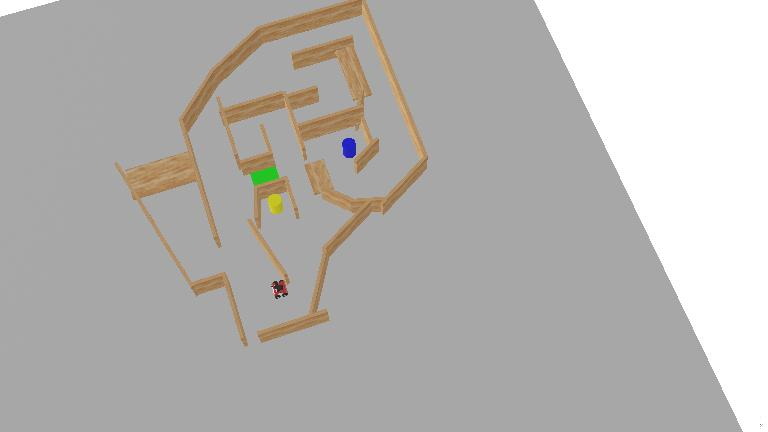
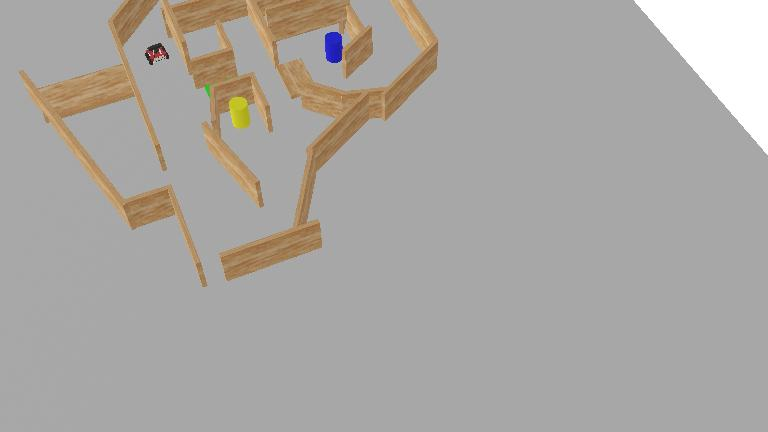
added known-free-only planner

diff --git a/controllers/my_controller/following.py b/controllers/my_controller/following.py
@@ -21,7 +21,9 @@ from config import (
     DWA_VELOCITY_SAMPLES, DWA_ANGULAR_SAMPLES, DWA_ROLLOUT_STEPS, DWA_ROBOT_RADIUS_PX,
     DWA_HEADING_WEIGHT, DWA_DISTANCE_WEIGHT, DWA_SPEED_WEIGHT, DWA_CLEARANCE_WEIGHT,
     PATH_FOLLOWING_TARGET_REACH_DIST_PX, FOLLOW_WAYPOINT_STRIDE,
-    FOLLOW_STUCK_MOVE_M, FOLLOW_STUCK_TURN_RAD, FOLLOW_STUCK_STEPS,
+    FOLLOW_RECOVER_STEPS, FOLLOW_RECOVER_VEL, FOLLOW_RECOVER_OMEGA, FOLLOW_MAX_RECOVERS,
+    FOLLOW_PROGRESS_WIN, FOLLOW_MIN_PROGRESS_M,
+    REAR_SAFE_DIST,
 )
 
 # Forward-speed cap used to normalise the DWA speed reward (m/s).
@@ -30,8 +32,10 @@ _MAX_SPEED = MAX_WHEEL_SPEED_RAD_S * WHEEL_RADIUS_M
 # ── Follower state ────────────────────────────────────────────────────────────
 _path = None
 _target_index = 0
-_stuck_last_pos = None
-_stuck_count = 0
+_recover_ticks = 0    # >0 while backing out of a wall the path runs into
+_recover_count = 0    # no-progress windows so far (escalates to "stuck" -> replan)
+_prog_ref = None      # robot (x, y) at the start of the current progress window
+_prog_ticks = 0       # ticks elapsed in the current progress window
 
 
 def _wrap(a):
@@ -119,22 +123,39 @@ def dwa_velocity(pose, world_target, dt):
 
 # ── Step-wise path follower ───────────────────────────────────────────────────
 
+def _reset_recovery():
+    global _recover_ticks, _recover_count, _prog_ref, _prog_ticks
+    _recover_ticks = 0
+    _recover_count = 0
+    _prog_ref = None
+    _prog_ticks = 0
+
+
 def set_path(path):
     """Load a path (list of (x, y) map cells) and reset follow state."""
-    global _path, _target_index, _stuck_last_pos, _stuck_count
+    global _path, _target_index
     _path = list(path) if path else None
     _target_index = min(FOLLOW_WAYPOINT_STRIDE, len(_path) - 1) if _path else 0
-    _stuck_last_pos = None
-    _stuck_count = 0
+    _reset_recovery()
 
 
 def reset():
     """Clear the follower state (no active path)."""
-    global _path, _target_index, _stuck_last_pos, _stuck_count
+    global _path, _target_index
     _path = None
     _target_index = 0
-    _stuck_last_pos = None
-    _stuck_count = 0
+    _reset_recovery()
+
+
+def _rear_clear(pose):
+    """True if the map shows no obstacle just behind the robot (safe to reverse)."""
+    x, y, theta = pose
+    for d in (0.06, 0.12, 0.18):
+        bx = x - d * math.cos(theta)
+        by = y - d * math.sin(theta)
+        if mapping.there_is_obstacle(mapping.world_to_map(bx, by)):
+            return False
+    return True
 
 
 def has_path():
@@ -149,9 +170,9 @@ def current_path():
 def step(pose, dt):
     """Advance one control tick.  Returns (v, omega, status).
 
-    status is one of: "following", "done", "stuck", "idle".
+    status is one of: "following", "recovering", "done", "stuck", "idle".
     """
-    global _target_index, _stuck_last_pos, _stuck_count
+    global _target_index, _recover_ticks, _recover_count, _prog_ref, _prog_ticks
 
     if not _path:
         return 0.0, 0.0, "idle"
@@ -163,6 +184,32 @@ def step(pose, dt):
     if _map_dist(robot_cell, _path[-1]) < PATH_FOLLOWING_TARGET_REACH_DIST_PX:
         return 0.0, 0.0, "done"
 
+    # ── Progress watchdog: measure NET movement over a window ──────────────────
+    # Catches limit cycles (creep-forward / back-out oscillation in a pocket)
+    # that never fully box DWA.  On real progress, clear the recovery counter;
+    # on a stalled window, back out — and after a few, give up so we replan.
+    if _prog_ref is None:
+        _prog_ref = (x, y)
+    _prog_ticks += 1
+    if _prog_ticks >= FOLLOW_PROGRESS_WIN:
+        moved = math.hypot(x - _prog_ref[0], y - _prog_ref[1])
+        _prog_ref = (x, y)
+        _prog_ticks = 0
+        if moved >= FOLLOW_MIN_PROGRESS_M:
+            _recover_count = 0
+        else:
+            _recover_count += 1
+            if _recover_count > FOLLOW_MAX_RECOVERS:
+                return 0.0, 0.0, "stuck"          # give up -> caller replans
+            _recover_ticks = FOLLOW_RECOVER_STEPS  # back out decisively and retry
+
+    # Recovery maneuver in progress: back out (arc reverse if rear clear) + turn.
+    if _recover_ticks > 0:
+        _recover_ticks -= 1
+        if _rear_clear(pose):
+            return FOLLOW_RECOVER_VEL, FOLLOW_RECOVER_OMEGA, "recovering"
+        return 0.0, FOLLOW_RECOVER_OMEGA, "recovering"
+
     # AURE follower: lock onto a FIXED waypoint until it is reached, then step
     # ahead by the stride.  A stable target (not re-picked every tick) is what
     # lets DWA drive straight at the path instead of hunting a moving carrot.
@@ -171,21 +218,13 @@ def step(pose, dt):
         _target_index += FOLLOW_WAYPOINT_STRIDE
     _target_index = min(_target_index, len(_path) - 1)
 
-    # Stuck detection: no meaningful progress for N ticks.  Rotating in place
-    # counts as progress (the robot is actively turning to escape / re-aim),
-    # so a long turn isn't mistaken for being stuck.
-    if _stuck_last_pos is not None:
-        moved = math.hypot(x - _stuck_last_pos[0], y - _stuck_last_pos[1])
-        turned = abs(_wrap(theta - _stuck_last_pos[2]))
-        if moved < FOLLOW_STUCK_MOVE_M and turned < FOLLOW_STUCK_TURN_RAD:
-            _stuck_count += 1
-            if _stuck_count >= FOLLOW_STUCK_STEPS:
-                return 0.0, 0.0, "stuck"
-        else:
-            _stuck_count = 0
-    _stuck_last_pos = (x, y, theta)
-
     target = _path[_target_index]
     world_target = mapping.map_to_world(target[0], target[1])
     v, w = dwa_velocity(pose, world_target, dt)
+
+    # DWA boxed (v=w=0): target behind a wall discovered after planning -> back out.
+    if abs(v) < 1e-3 and abs(w) < 1e-3:
+        _recover_ticks = FOLLOW_RECOVER_STEPS
+        return (FOLLOW_RECOVER_VEL if _rear_clear(pose) else 0.0), FOLLOW_RECOVER_OMEGA, "recovering"
+
     return v, w, "following"

diff --git a/controllers/my_controller/config.py b/controllers/my_controller/config.py
@@ -115,6 +115,8 @@ PATH_MIN_LENGTH_M      = 0.8        # m — shorter A* results are retried at th
 ASTAR_SAFE_DISTANCE_PX = 5.0        # px — clearance band within which the wall penalty applies
 ASTAR_PENALTY_STRENGTH = 2.0        # cost weight pushing paths away from walls
 ASTAR_HEURISTIC_WEIGHT = 1.2        # A* heuristic multiplier (matches AURE)
+PLAN_BLOCK_UNKNOWN     = True       # only route through mapped-free space (never through
+                                    # UNKNOWN) — paths can't run into unmapped walls
 
 # ── DWA local path follower (AURE) ────────────────────────────────────────────
 DWA_VELOCITY_SAMPLES = [0.0, 0.1, 0.2, 0.3]   # m/s; 0.0 lets DWA rotate in place to escape
@@ -138,6 +140,16 @@ FOLLOW_STUCK_STEPS  = 25                  # stalled ticks before declaring "stuc
 FOLLOW_PROGRESS_WINDOW = 40   # control ticks between progress checks
 FOLLOW_MIN_PROGRESS_PX = 3    # min cells closer to goal per window, else replan
 FOLLOW_MAX_RETRIES = 6        # replans allowed on stuck in manual Follow (Y) before giving up
+
+# When DWA is boxed (target behind a newly-seen wall) or the robot stalls in a
+# pocket (no net progress), back out and turn to escape; after a few failed
+# windows report "stuck" so the caller replans.  Self-contained in following.py.
+FOLLOW_RECOVER_STEPS  = 25    # ticks spent backing out + turning
+FOLLOW_RECOVER_VEL    = -0.12 # m/s reverse speed during recovery
+FOLLOW_RECOVER_OMEGA  = 1.2   # rad/s turn while reversing (arc out, re-orient)
+FOLLOW_MAX_RECOVERS   = 3     # no-progress windows before reporting "stuck" (-> replan)
+FOLLOW_PROGRESS_WIN   = 35    # ticks over which net movement is checked
+FOLLOW_MIN_PROGRESS_M = 0.12  # min net metres moved per window, else it's stalled
 
 # ── Frontier exploration (AURE) ───────────────────────────────────────────────
 FRONTIER_MIN_CLUSTER       = 15   # min frontier cells to keep a cluster

diff --git a/controllers/my_controller/planning.py b/controllers/my_controller/planning.py
@@ -22,9 +22,10 @@ from scipy.interpolate import splprep, splev
 
 import mapping
 from config import (
-    CELL_FREE, CELL_OCC, CELL_CLOSED, CELL_GREEN,
+    CELL_FREE, CELL_OCC, CELL_CLOSED, CELL_GREEN, CELL_UNKNOWN,
     ASTAR_INFLATION_LEVELS, ASTAR_EXPANSION_PIXELS, PATH_MIN_LENGTH_M,
     ASTAR_SAFE_DISTANCE_PX, ASTAR_PENALTY_STRENGTH, ASTAR_HEURISTIC_WEIGHT,
+    PLAN_BLOCK_UNKNOWN,
 )
 
 
@@ -200,6 +201,7 @@ def plan(start_cell, goal_cell, grid=None):
         work = base.astype(np.int32)
         closed_mask = (work == CELL_CLOSED)
         green_mask = (work == CELL_GREEN)
+        unknown_mask = (work == CELL_UNKNOWN)
 
         # Don't inflate closures/green: closures free during inflation, green hard.
         work[closed_mask] = CELL_FREE
@@ -212,6 +214,11 @@ def plan(start_cell, goal_cell, grid=None):
         # Re-apply closures/green as hard obstacles after inflation.
         work[closed_mask] = CELL_OCC
         work[green_mask] = CELL_OCC
+
+        # Only route through mapped-free space: block UNKNOWN so a path can never
+        # run into an unmapped wall (endpoint disks below still free start/goal).
+        if PLAN_BLOCK_UNKNOWN:
+            work[unknown_mask] = CELL_OCC
 
         _expand_free_disk(work, goal_cell, ASTAR_EXPANSION_PIXELS)
         _expand_free_disk(work, start_cell, ASTAR_EXPANSION_PIXELS)
